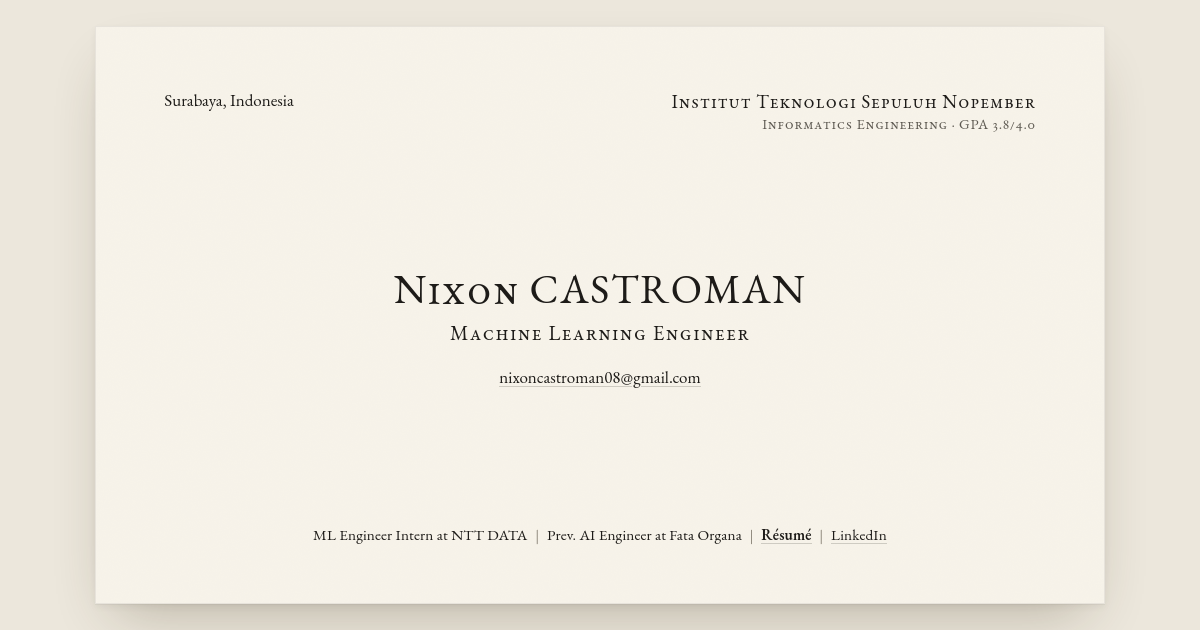
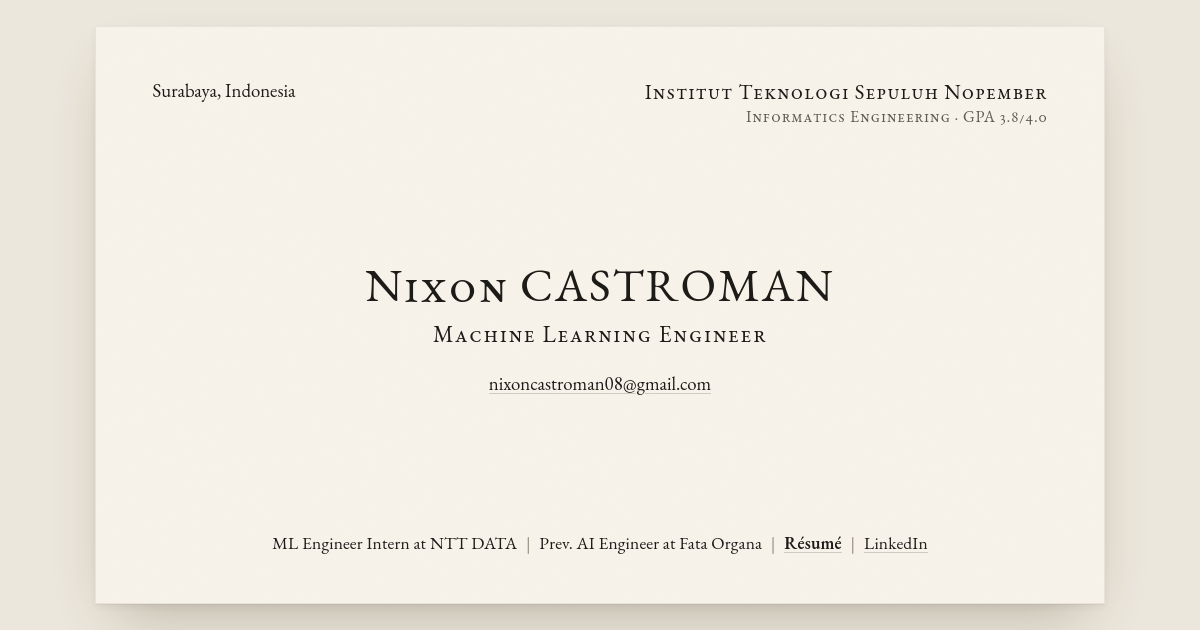
Bigger card, project cards, shorter about
The landing card now grows with the screen (up to 1180px) with larger type.
Projects are shown as small cards in the same style; about is two lines.

diff --git a/assets/css/site.css b/assets/css/site.css
@@ -27,6 +27,8 @@
   --serif: "EB Garamond", Garamond, "Times New Roman", serif;
   --measure: 40rem;
   --page: min(860px, 92vw);
+  /* landing card: up to 1180px, 90vw on phones, and short enough to fit the window */
+  --card-w: min(1180px, 90vw, max(620px, calc((100svh - 190px) * 1.75)));
 }
 
 *, *::before, *::after { box-sizing: border-box; }
@@ -81,6 +83,7 @@ a:hover { text-decoration-color: var(--ink); }
   container-type: inline-size;
   position: relative;
   width: var(--page);
+  width: var(--card-w);
   aspect-ratio: 7 / 4;               /* a 3.5 x 2 in business card */
   background: var(--card);
   border: 1px solid rgba(29, 27, 24, .07);
@@ -89,7 +92,7 @@ a:hover { text-decoration-color: var(--ink); }
     0 3px 8px rgba(29, 27, 24, .05),
     0 26px 60px -20px rgba(60, 45, 20, .30);
   padding: 44px 48px 40px;
-  padding: 5cqi 5.6cqi 4.6cqi;
+  padding: calc(var(--card-w) * .05) calc(var(--card-w) * .056) calc(var(--card-w) * .046);
   display: grid;
   grid-template-rows: auto 1fr auto;
 }
@@ -113,8 +116,8 @@ a:hover { text-decoration-color: var(--ink); }
   justify-content: space-between;
   align-items: flex-start;
   gap: 2rem;
-  font-size: 16px;
-  font-size: 1.95cqi;
+  font-size: 17px;
+  font-size: 2.1cqi;
   line-height: 1.35;
 }
 .card-org { text-align: right; }
@@ -125,8 +128,8 @@ a:hover { text-decoration-color: var(--ink); }
 .card-name {
   margin: 0;
   font-weight: 400;
-  font-size: 40px;
-  font-size: 4.7cqi;
+  font-size: 44px;
+  font-size: 5.2cqi;
   line-height: 1.1;
   letter-spacing: .04em;
 }
@@ -136,15 +139,15 @@ a:hover { text-decoration-color: var(--ink); }
   margin-top: .3em !important;
   font-variant-caps: small-caps;
   letter-spacing: .07em;
-  font-size: 20px;
-  font-size: 2.35cqi;
+  font-size: 21px;
+  font-size: 2.55cqi;
 }
-.card-email { margin-top: .9em !important; font-size: 16px; font-size: 1.95cqi; font-variant-numeric: lining-nums; }
+.card-email { margin-top: .9em !important; font-size: 17px; font-size: 2.1cqi; font-variant-numeric: lining-nums; }
 
 .card-bottom {
   text-align: center;
-  font-size: 15px;
-  font-size: 1.75cqi;
+  font-size: 16px;
+  font-size: 1.95cqi;
   letter-spacing: .01em;
 }
 .card-bottom .sep { padding: 0 .5em; color: var(--ink-3); }
@@ -187,49 +190,49 @@ a:hover { text-decoration-color: var(--ink); }
   letter-spacing: .09em;
 }
 
-.work { padding: 3rem 0 1rem; }
-.work-list { list-style: none; margin: 0; padding: 0; }
-.work-item { border-bottom: 1px solid var(--rule); }
-.work-link {
-  display: block;
-  padding: 1.05rem 0 1.2rem;
+/* Selected work: a small deck of cards on the same stock, laid out like the main card */
+.work { width: var(--card-w); margin: 0 auto; padding: 1.5rem 0 0; }
+.home .section-title { text-align: center; border: 0; padding: 0; margin: 0 0 2rem; color: var(--ink-2); }
+.deck { list-style: none; margin: 0; padding: 0; display: grid; grid-template-columns: 1fr 1fr; gap: 2.2rem; }
+.mini {
+  container-type: inline-size;
+  position: relative;
+  display: grid;
+  grid-template-rows: auto 1fr auto;
+  aspect-ratio: 7 / 4;
+  padding: 5.4% 6.2% 4.8%;
+  background: var(--card);
+  border: 1px solid rgba(29, 27, 24, .08);
+  box-shadow: 0 1px 1px rgba(29, 27, 24, .04), 0 14px 32px -18px rgba(60, 45, 20, .32);
+  color: var(--ink);
   text-decoration: none;
+  transition: transform .18s ease, box-shadow .18s ease;
 }
-.work-row { display: flex; align-items: baseline; gap: .9rem; }
-.work-num {
-  min-width: 1.7rem;
-  color: var(--ink-2);
-  font-size: .95rem;
-  font-variant-numeric: lining-nums tabular-nums;
+.mini:hover, .mini:focus-visible {
+  transform: translateY(-3px);
+  box-shadow: 0 1px 1px rgba(29, 27, 24, .05), 0 22px 42px -20px rgba(60, 45, 20, .40);
 }
-.work-title {
-  font-size: 1.45rem;
-  line-height: 1.25;
-  font-variant-caps: small-caps;
-  letter-spacing: .03em;
+@media (prefers-reduced-motion: reduce) {
+  .mini { transition: none; }
+  .mini:hover, .mini:focus-visible { transform: none; }
 }
-.work-leader {
-  flex: 1;
-  min-width: 1.5rem;
-  border-bottom: 1px dotted var(--ink-3);
-  transform: translateY(-.3em);
-}
-.work-meta { color: var(--ink-2); font-style: italic; white-space: nowrap; }
-.work-desc { display: block; margin: .3rem 0 0 2.6rem; max-width: 38rem; color: var(--ink-2); }
-.work-link:hover .work-title,
-.work-link:focus-visible .work-title {
-  text-decoration: underline;
-  text-decoration-thickness: 1px;
-  text-underline-offset: .18em;
-}
-@media (max-width: 600px) {
-  .work-row { flex-wrap: wrap; row-gap: 0; }
-  .work-leader { display: none; }
-  .work-meta { width: 100%; padding-left: 2.6rem; }
-}
+.mini-top { display: flex; justify-content: space-between; gap: 1rem; font-size: clamp(13.5px, 3cqi, 18px); color: var(--ink-2); }
+.mini-top .ctx { font-variant-caps: small-caps; letter-spacing: .05em; }
+.mini-center { align-self: center; text-align: center; }
+.mini-title { display: block; font-size: clamp(22px, 5.7cqi, 34px); line-height: 1.15; font-variant-caps: small-caps; letter-spacing: .03em; }
+.mini-desc { display: block; margin: .55em auto 0; max-width: 92%; font-size: clamp(15px, 3.35cqi, 20px); line-height: 1.4; color: var(--ink-2); }
+.mini-bottom { text-align: center; font-size: clamp(13px, 2.75cqi, 16px); font-variant-caps: all-small-caps; letter-spacing: .09em; color: var(--ink-2); }
+@media (max-width: 760px) { .deck { grid-template-columns: 1fr; } }
+@media (max-width: 600px) { .mini { aspect-ratio: auto; min-height: 15rem; padding: 22px 20px 20px; } }
 
-.about { padding: 2.6rem 0 1rem; }
-.about p { max-width: var(--measure); margin: .9rem 0 0; }
+/* About: two quiet lines and three links, centred like the card */
+.about { width: var(--card-w); margin: 0 auto; padding: 5rem 0 0; text-align: center; }
+.about p { margin: 0 auto .45rem; max-width: 38rem; font-size: 1.15rem; line-height: 1.6; color: var(--ink-2); }
+.about .links { margin-top: 1.3rem; font-variant-caps: all-small-caps; letter-spacing: .1em; font-size: 1.1rem; }
+.about .links a { margin: 0 .6rem; color: var(--ink); text-decoration: none; border-bottom: 1px solid var(--rule); }
+.about .links a:hover { border-bottom-color: var(--ink); }
+.home .site-footer { padding: 4rem 0 3rem; }
+.home .site-footer .wrap { width: var(--card-w); justify-content: center; border-top: 0; padding-top: 0; }
 
 .site-footer { padding: 3rem 0 3.5rem; color: var(--ink-2); font-size: 1rem; }
 .site-footer .wrap {

diff --git a/index.html b/index.html
@@ -17,7 +17,7 @@
 <link rel="preload" href="assets/fonts/EBGaramond-VariableFont.ttf" as="font" type="font/ttf" crossorigin>
 <link rel="stylesheet" href="assets/css/site.css">
 </head>
-<body>
+<body class="home">
 <a class="skip" href="#work">Skip to work</a>
 
 <main>
@@ -43,52 +43,62 @@
     <a class="cue" href="#work">Selected work ↓</a>
   </section>
 
-  <section id="work" class="work wrap" aria-labelledby="work-title">
+  <section id="work" class="work" aria-labelledby="work-title">
     <h2 id="work-title" class="section-title">Selected work</h2>
-    <ol class="work-list">
-      <li class="work-item">
-        <a class="work-link" href="work/pd-refactor.html">
-          <span class="work-row"><span class="work-num">01</span><span class="work-title">Forward-Looking PD Refactor</span><span class="work-leader" aria-hidden="true"></span><span class="work-meta">NTT DATA · 2026</span></span>
-          <span class="work-desc">Made a bank credit-risk pipeline 5.7× faster and 17× lighter on memory, with the same results.</span>
+    <ul class="deck">
+      <li>
+        <a class="mini" href="work/pd-refactor.html">
+          <span class="mini-top"><span class="ctx">NTT DATA</span><span>2026</span></span>
+          <span class="mini-center">
+            <span class="mini-title">Forward-Looking PD Refactor</span>
+            <span class="mini-desc">A bank credit-risk pipeline: 5.7× faster, 17× less memory, same results.</span>
+          </span>
+          <span class="mini-bottom">Python · Kafka · statsmodels</span>
         </a>
       </li>
-      <li class="work-item">
-        <a class="work-link" href="work/leak-phishing-monitor.html">
-          <span class="work-row"><span class="work-num">02</span><span class="work-title">Leak &amp; Phishing Early Detection</span><span class="work-leader" aria-hidden="true"></span><span class="work-meta">Capstone, Bank Jatim · 2026</span></span>
-          <span class="work-desc">Watches public sites and the dark web for leaked bank data and fake bank sites. I lead the team.</span>
+      <li>
+        <a class="mini" href="work/leak-phishing-monitor.html">
+          <span class="mini-top"><span class="ctx">Capstone · Bank Jatim</span><span>2026</span></span>
+          <span class="mini-center">
+            <span class="mini-title">Leak &amp; Phishing Early Detection</span>
+            <span class="mini-desc">Watches public sites and the dark web for leaked bank data and fake bank sites.</span>
+          </span>
+          <span class="mini-bottom">FastAPI · PostgreSQL · React</span>
         </a>
       </li>
-      <li class="work-item">
-        <a class="work-link" href="work/classify-detoxify.html">
-          <span class="work-row"><span class="work-num">03</span><span class="work-title">Classify &amp; Detoxify</span><span class="work-leader" aria-hidden="true"></span><span class="work-meta">NLP · 2025</span></span>
-          <span class="work-desc">Rewrites toxic comments into polite ones instead of deleting them. RoBERTa plus a fine-tuned LLaMA 3.1 8B.</span>
+      <li>
+        <a class="mini" href="work/classify-detoxify.html">
+          <span class="mini-top"><span class="ctx">NLP project</span><span>2025</span></span>
+          <span class="mini-center">
+            <span class="mini-title">Classify &amp; Detoxify</span>
+            <span class="mini-desc">Rewrites toxic comments into polite ones instead of deleting them.</span>
+          </span>
+          <span class="mini-bottom">RoBERTa · LLaMA 3.1 8B · QLoRA</span>
         </a>
       </li>
-      <li class="work-item">
-        <a class="work-link" href="work/spec-generator.html">
-          <span class="work-row"><span class="work-num">04</span><span class="work-title">Spec Generator</span><span class="work-leader" aria-hidden="true"></span><span class="work-meta">Fata Organa · 2025</span></span>
-          <span class="work-desc">Writes a 29-page technical spec from a short brief, using local LLMs.</span>
+      <li>
+        <a class="mini" href="work/spec-generator.html">
+          <span class="mini-top"><span class="ctx">Fata Organa</span><span>2025</span></span>
+          <span class="mini-center">
+            <span class="mini-title">Spec Generator</span>
+            <span class="mini-desc">Writes a 29-page technical spec from a short brief, on local LLMs.</span>
+          </span>
+          <span class="mini-bottom">FastAPI · LangChain · Ollama</span>
         </a>
       </li>
-    </ol>
+    </ul>
   </section>
 
-  <section class="about wrap" aria-labelledby="about-title">
-    <h2 id="about-title" class="section-title">About</h2>
-    <p>Final-year Informatics Engineering student at ITS in Surabaya, graduating in 2027. I’m a Machine Learning Engineer intern at NTT DATA. Before that I was an AI Engineer intern at Fata Organa, and a teaching assistant for Machine Learning, Computer Networks and Operating Systems.</p>
-    <p>I speak Indonesian, English and conversational Mandarin.</p>
-    <p><strong>Looking for ML, AI and data science internships and new-grad roles, anywhere.</strong> Email works best.</p>
+  <section class="about" aria-label="About">
+    <p>Final-year Informatics Engineering at ITS, graduating in 2027.</p>
+    <p>Looking for ML, AI and data science internships and new-grad roles, anywhere.</p>
+    <p class="links"><a href="mailto:nixoncastroman08@gmail.com">Email</a><a href="https://www.linkedin.com/in/nixoncastroman">LinkedIn</a><a href="resume.pdf">Résumé</a></p>
   </section>
 </main>
 
 <footer class="site-footer">
   <div class="wrap">
     <span>© 2026 Nixon Castroman</span>
-    <nav aria-label="Contact">
-      <a href="mailto:nixoncastroman08@gmail.com">Email</a>
-      <a href="https://www.linkedin.com/in/nixoncastroman">LinkedIn</a>
-      <a href="resume.pdf">Résumé</a>
-    </nav>
   </div>
 </footer>
 </body>
